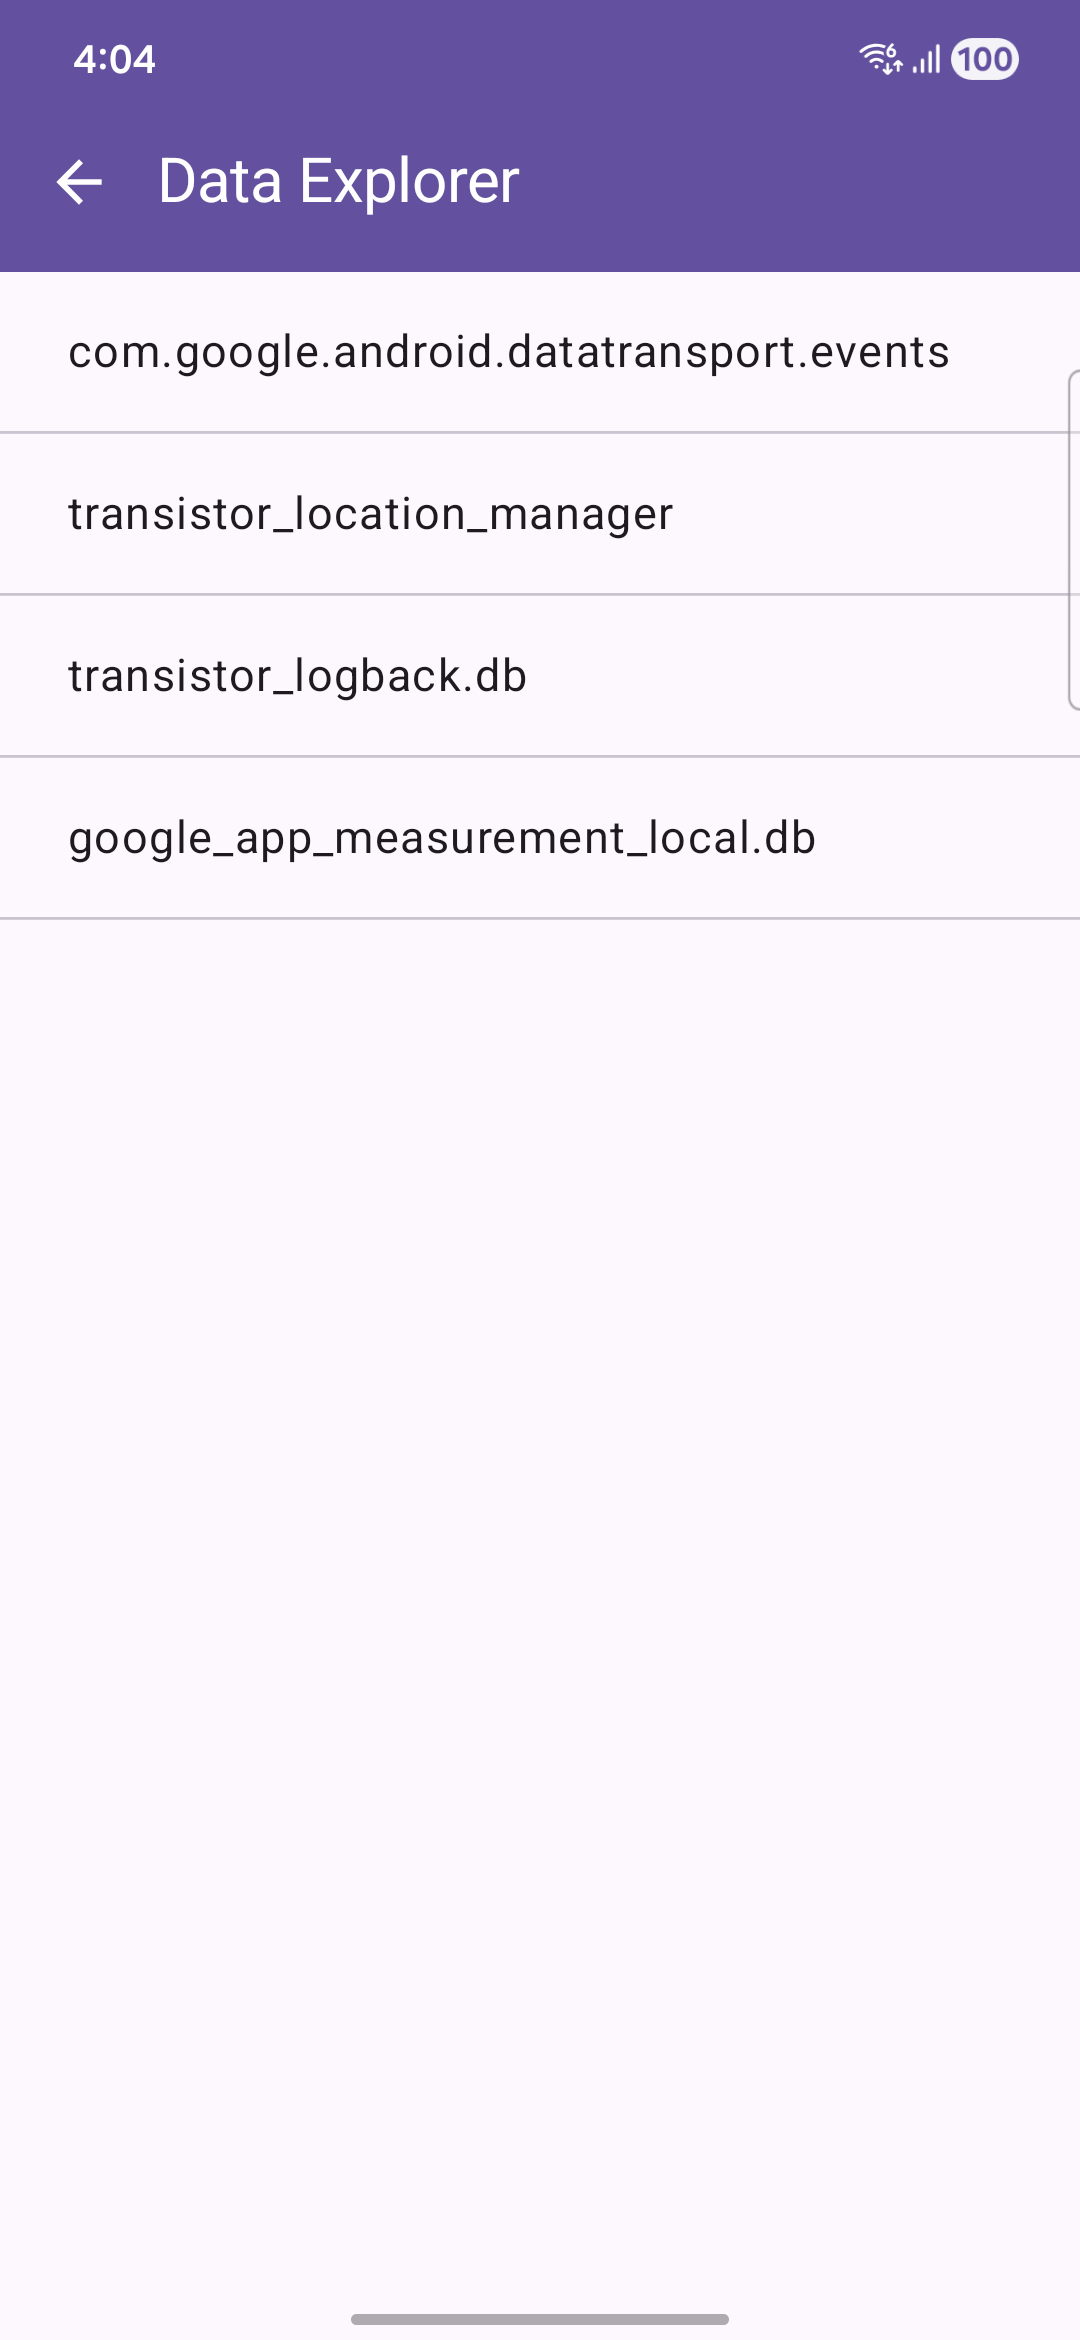
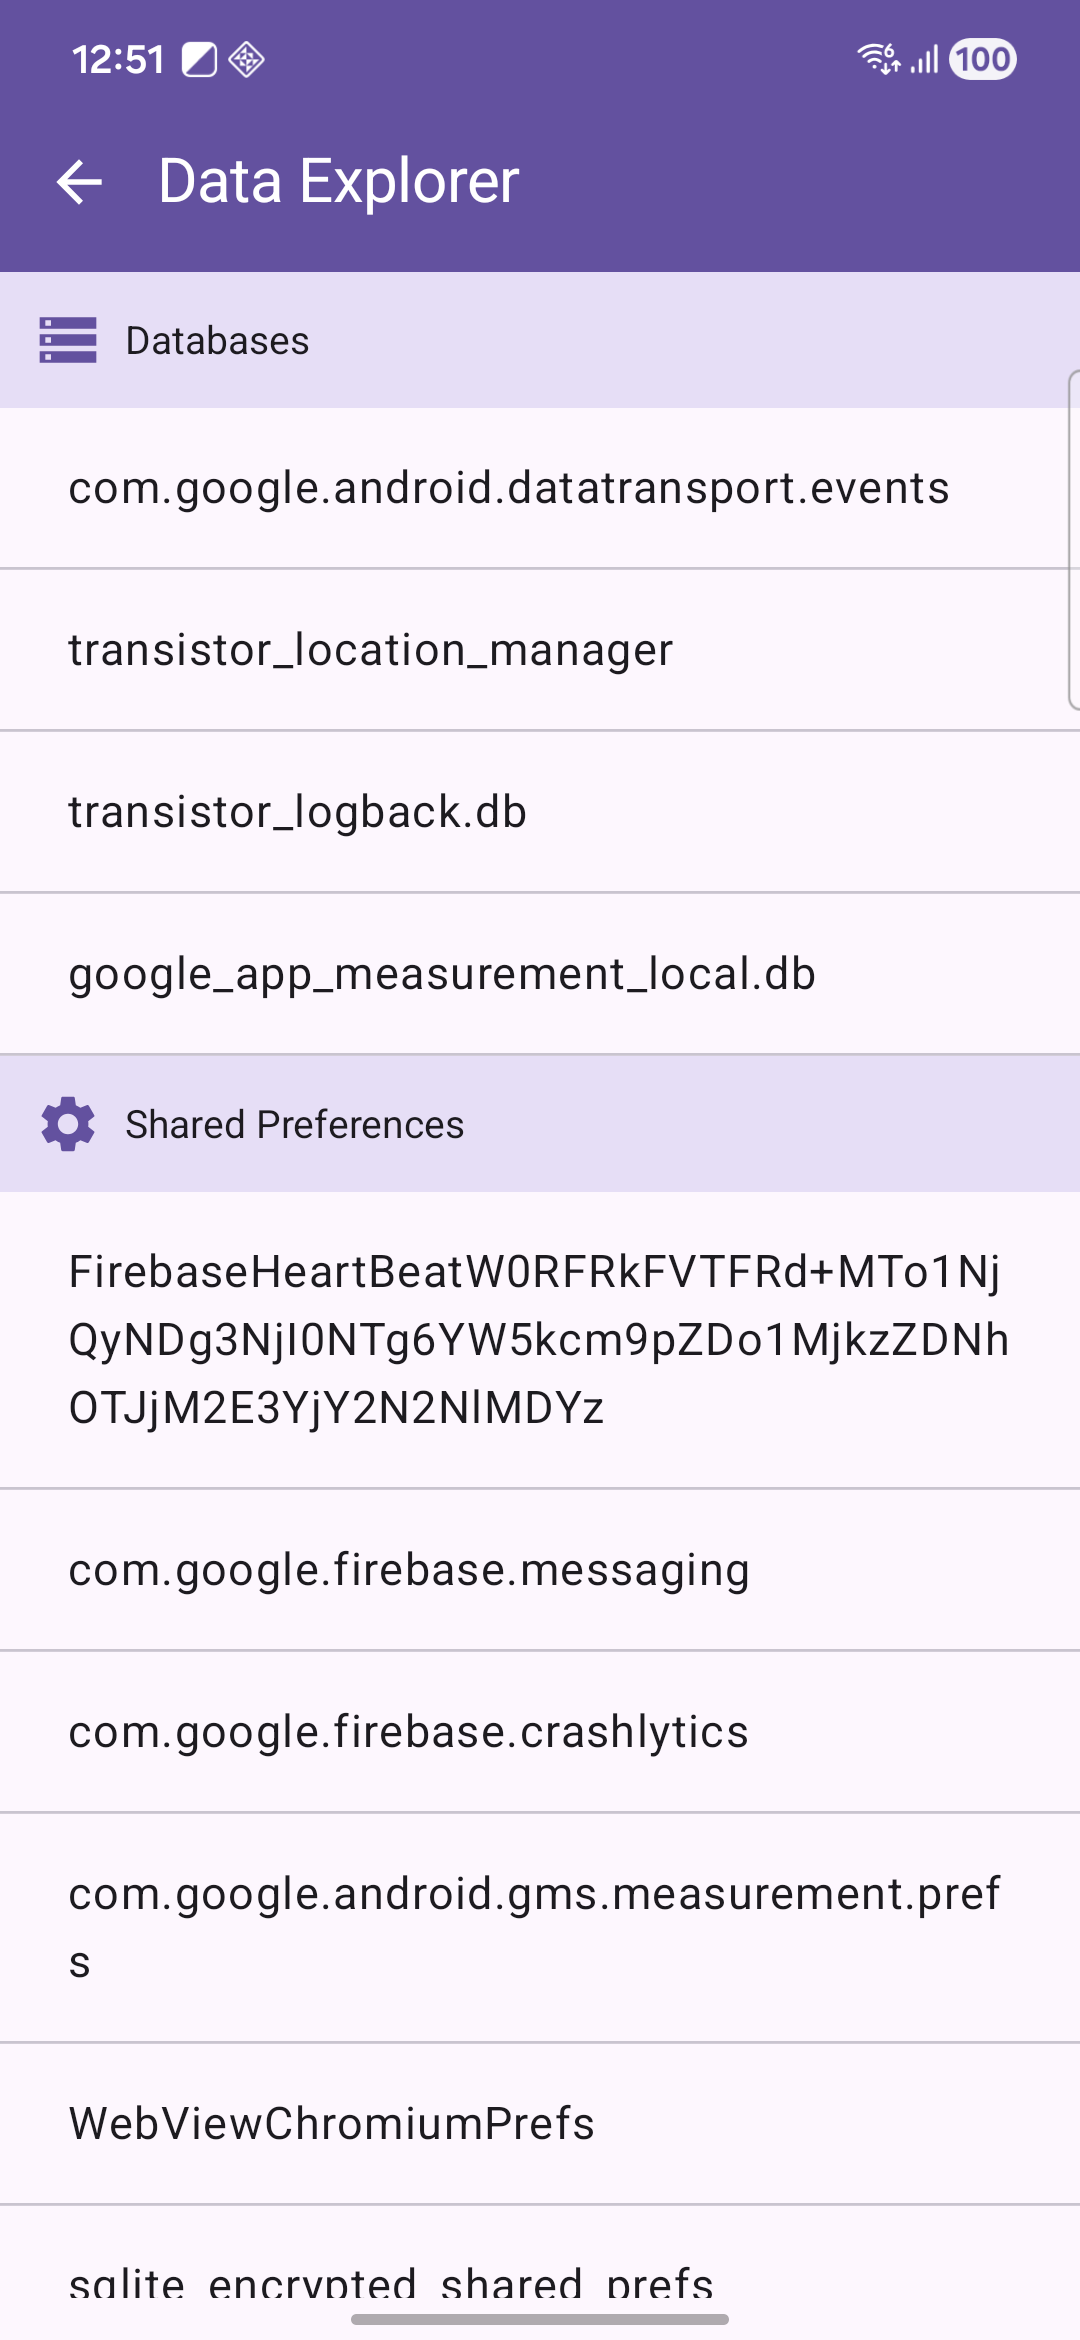
Show shared pref cell details & add screenshots
Add in-screen cell detail dialog for SharedPreferences UI and update README screenshots. SharedPreferencesActivity: remove the onCellClick callback, add remember state (selectedCellData, showCellInfoDialog) and display CellDetailDialog when a key or value is tapped; make key/value Text composables clickable and adjust imports. README: include additional screenshot images and update existing image tags. Several screenshot image files were added/updated.

diff --git a/android/src/main/java/com/phatvuong/plugin/SharedPreferencesActivity.kt b/android/src/main/java/com/phatvuong/plugin/SharedPreferencesActivity.kt
@@ -12,7 +12,6 @@ import androidx.compose.foundation.layout.Column
 import androidx.compose.foundation.layout.IntrinsicSize
 import androidx.compose.foundation.layout.Row
 import androidx.compose.foundation.layout.fillMaxHeight
-import androidx.compose.foundation.layout.fillMaxSize
 import androidx.compose.foundation.layout.fillMaxWidth
 import androidx.compose.foundation.layout.height
 import androidx.compose.foundation.layout.padding
@@ -32,7 +31,10 @@ import androidx.compose.material3.Text
 import androidx.compose.material3.TopAppBar
 import androidx.compose.material3.TopAppBarDefaults
 import androidx.compose.runtime.Composable
-import androidx.compose.ui.Alignment
+import androidx.compose.runtime.getValue
+import androidx.compose.runtime.mutableStateOf
+import androidx.compose.runtime.remember
+import androidx.compose.runtime.setValue
 import androidx.compose.ui.Modifier
 import androidx.compose.ui.text.style.TextOverflow
 import androidx.compose.ui.unit.dp
@@ -44,7 +46,7 @@ class SharedPreferencesActivity : ComponentActivity() {
         val data = DatabaseRepository.getInstance().getSharedPrefsData(this, fileName)
 
         setContent {
-            SharedPreferencesScreen(fileName, data) { }
+            SharedPreferencesScreen(fileName, data)
         }
     }
 }
@@ -54,10 +56,20 @@ class SharedPreferencesActivity : ComponentActivity() {
 fun SharedPreferencesScreen(
     fileName: String,
     data: List<Pair<String, String>>,
-    onCellClick: (String) -> Unit
 ) {
     val act = LocalActivity.current
     val dividerColor = MaterialTheme.colorScheme.outlineVariant
+
+    var selectedCellData by remember { mutableStateOf<String?>(null) }
+    var showCellInfoDialog by remember { mutableStateOf(false) }
+
+    if (showCellInfoDialog && selectedCellData != null) {
+        CellDetailDialog(
+            data = selectedCellData!!,
+            onDismiss = { showCellInfoDialog = false }
+        )
+    }
+
     Scaffold(
         topBar = {
             TopAppBar(
@@ -120,11 +132,16 @@ fun SharedPreferencesScreen(
                                 if (index % 2 == 0) MaterialTheme.colorScheme.surface
                                 else MaterialTheme.colorScheme.surfaceVariant.copy(alpha = 0.2f)
                             )
-                            .clickable { onCellClick(item.second) },
                     ) {
                         Text(
                             text = item.first,
-                            modifier = Modifier.weight(0.4f).padding(12.dp),
+                            modifier = Modifier
+                                .clickable {
+                                    selectedCellData = item.first
+                                    showCellInfoDialog = true
+                                }
+                                .weight(0.4f)
+                                .padding(12.dp),
                         )
 
                         Box(
@@ -136,7 +153,13 @@ fun SharedPreferencesScreen(
 
                         Text(
                             text = item.second,
-                            modifier = Modifier.weight(0.6f).padding(12.dp),
+                            modifier = Modifier
+                                .clickable {
+                                    selectedCellData = item.second
+                                    showCellInfoDialog = true
+                                }
+                                .weight(0.6f)
+                                .padding(12.dp),
                         )
                     }
                     HorizontalDivider(thickness = 0.5.dp, color = dividerColor)

diff --git a/README.md b/README.md
@@ -3,9 +3,12 @@
 A powerful local SQLite database explorer plugin for Capacitor apps. This plugin allows developers and testers to inspect, browse, and verify local database records directly within the app using a modern, performant UI.\
 This plugin provides excellent support for performing mobile app automation testing at the database level.
 
-<img src="screenshots/databases.png" alt="All Database Files" width="300">
-<img src="screenshots/tables.png" alt="All Tables of Selected Database" width="300">
-<img src="screenshots/records.png" alt="All Records of Selected Table" width="300">
+<img src="screenshots/databases.png" width="300">
+<img src="screenshots/tables.png" width="300">
+<img src="screenshots/records.png" width="300">
+<img src="screenshots/setting_columns.png" width="300">
+<img src="screenshots/setting_filters.png" width="300">
+<img src="screenshots/preferences.png" width="300">
 
 ## Prerequisites
 
